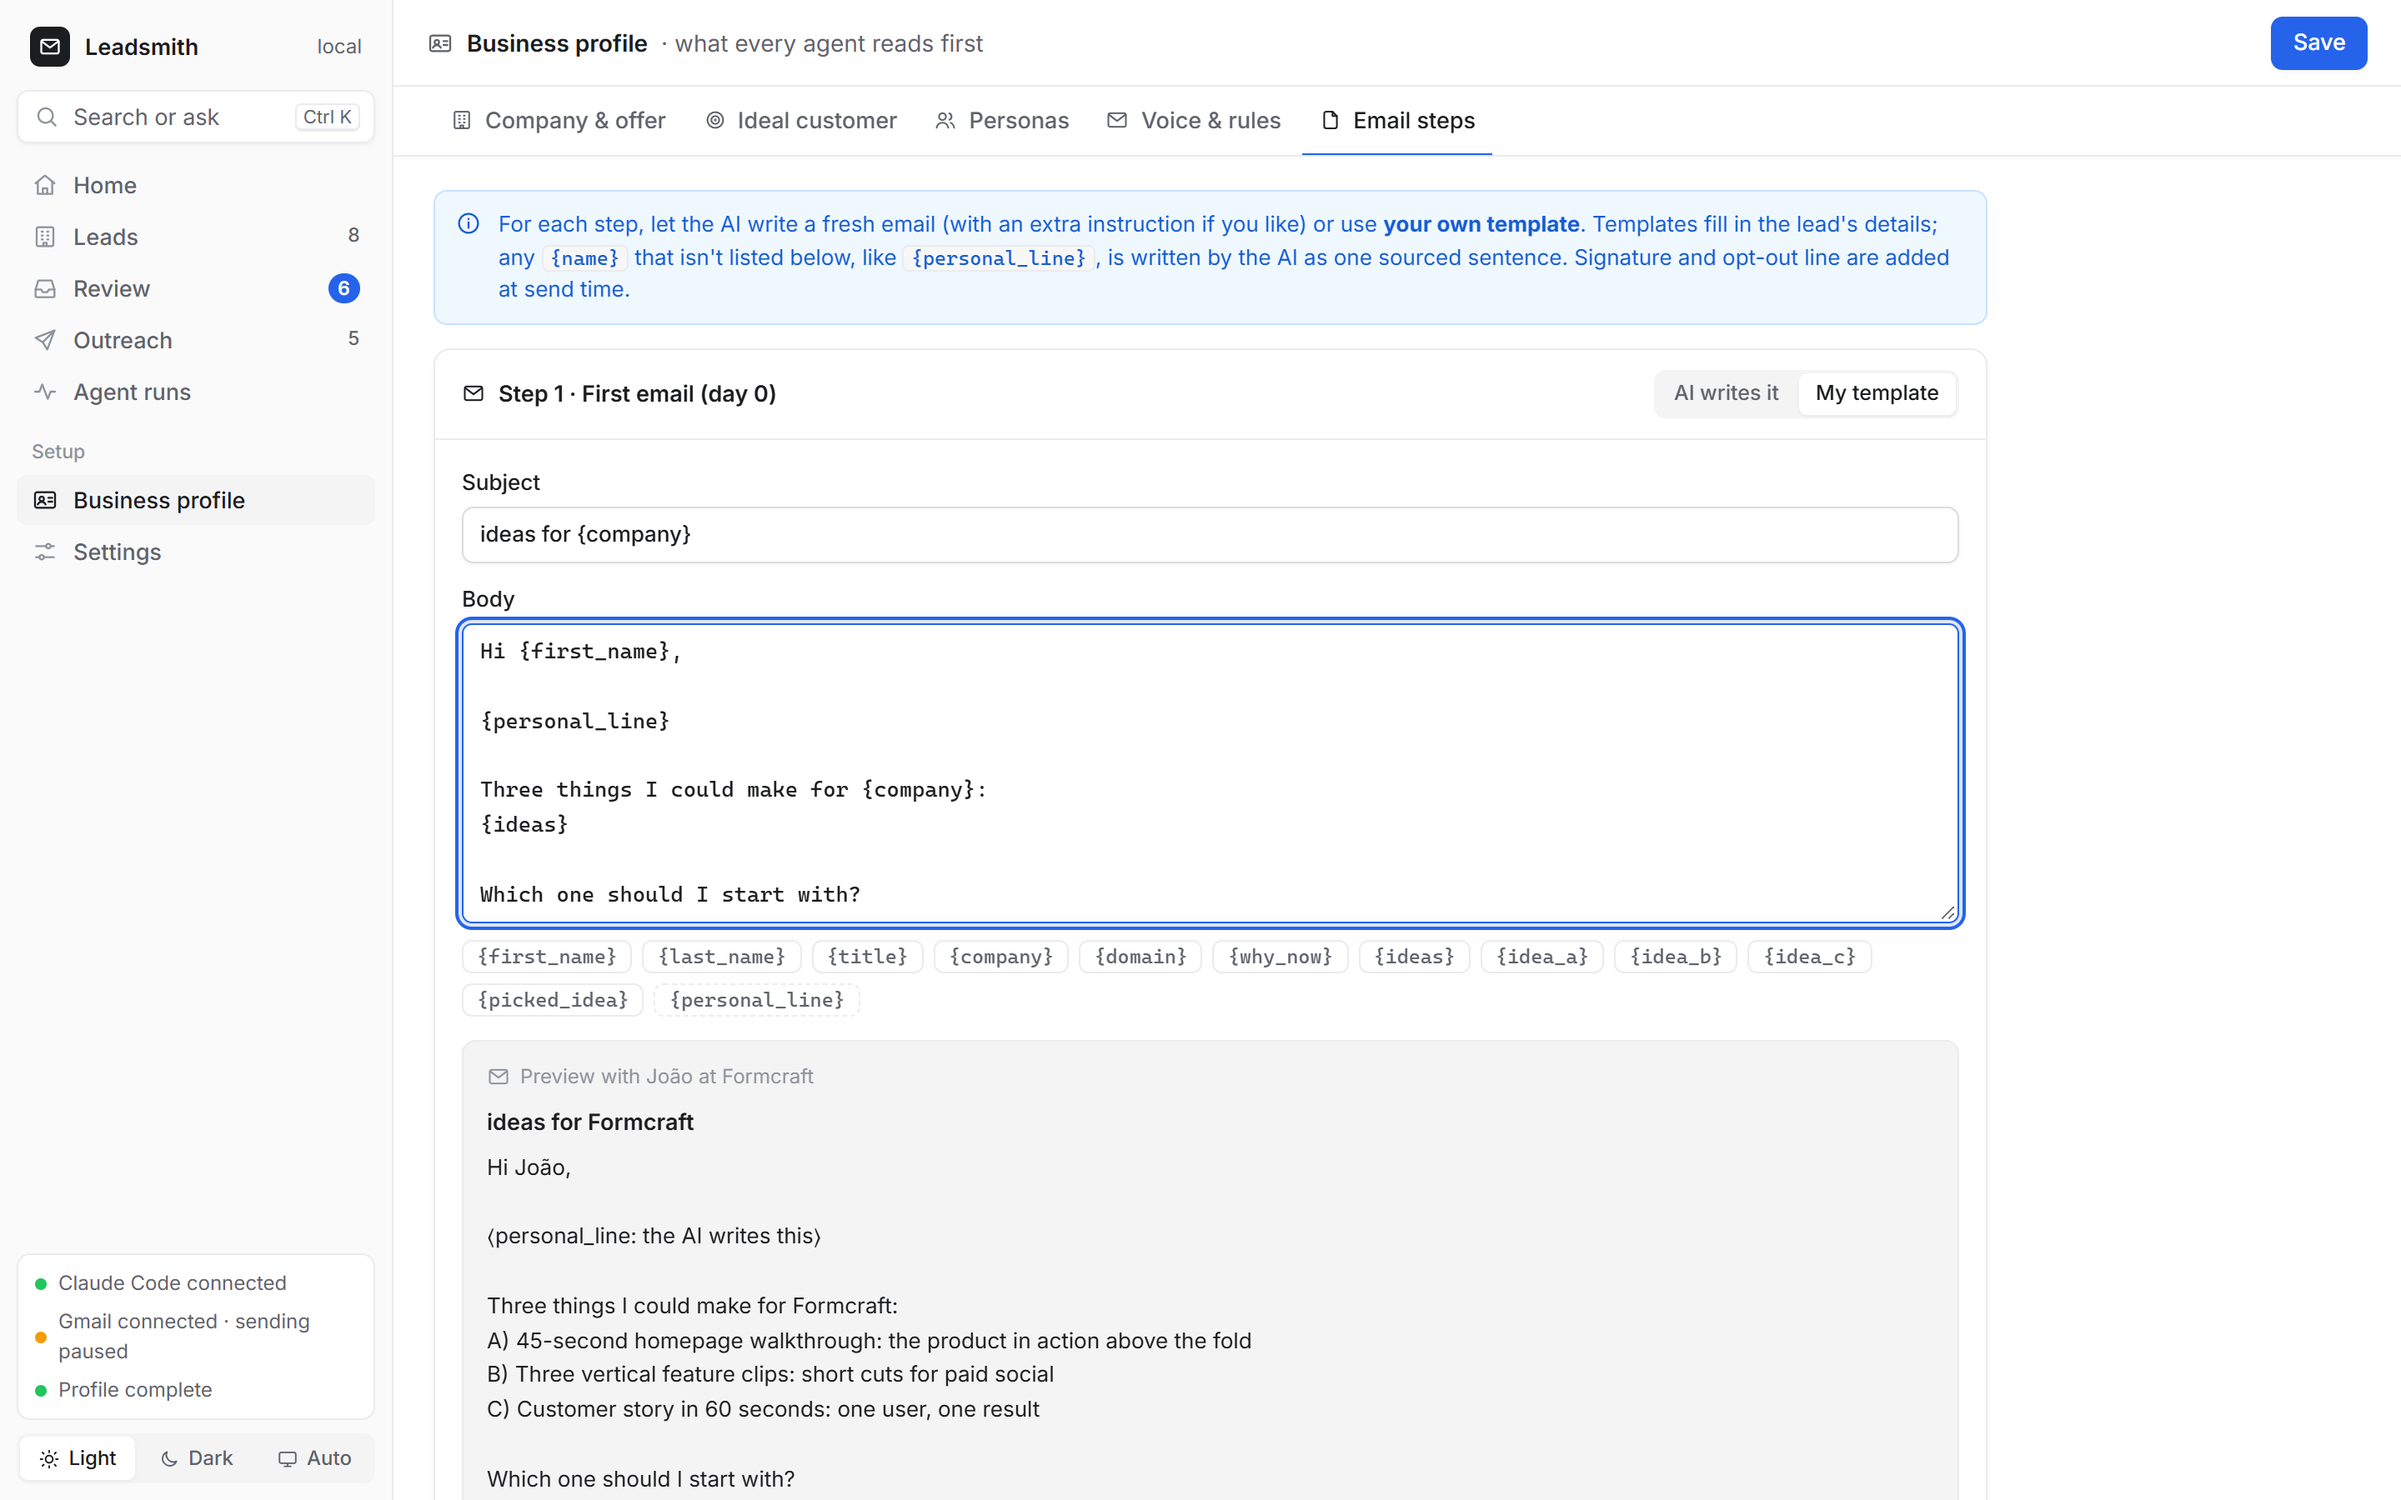
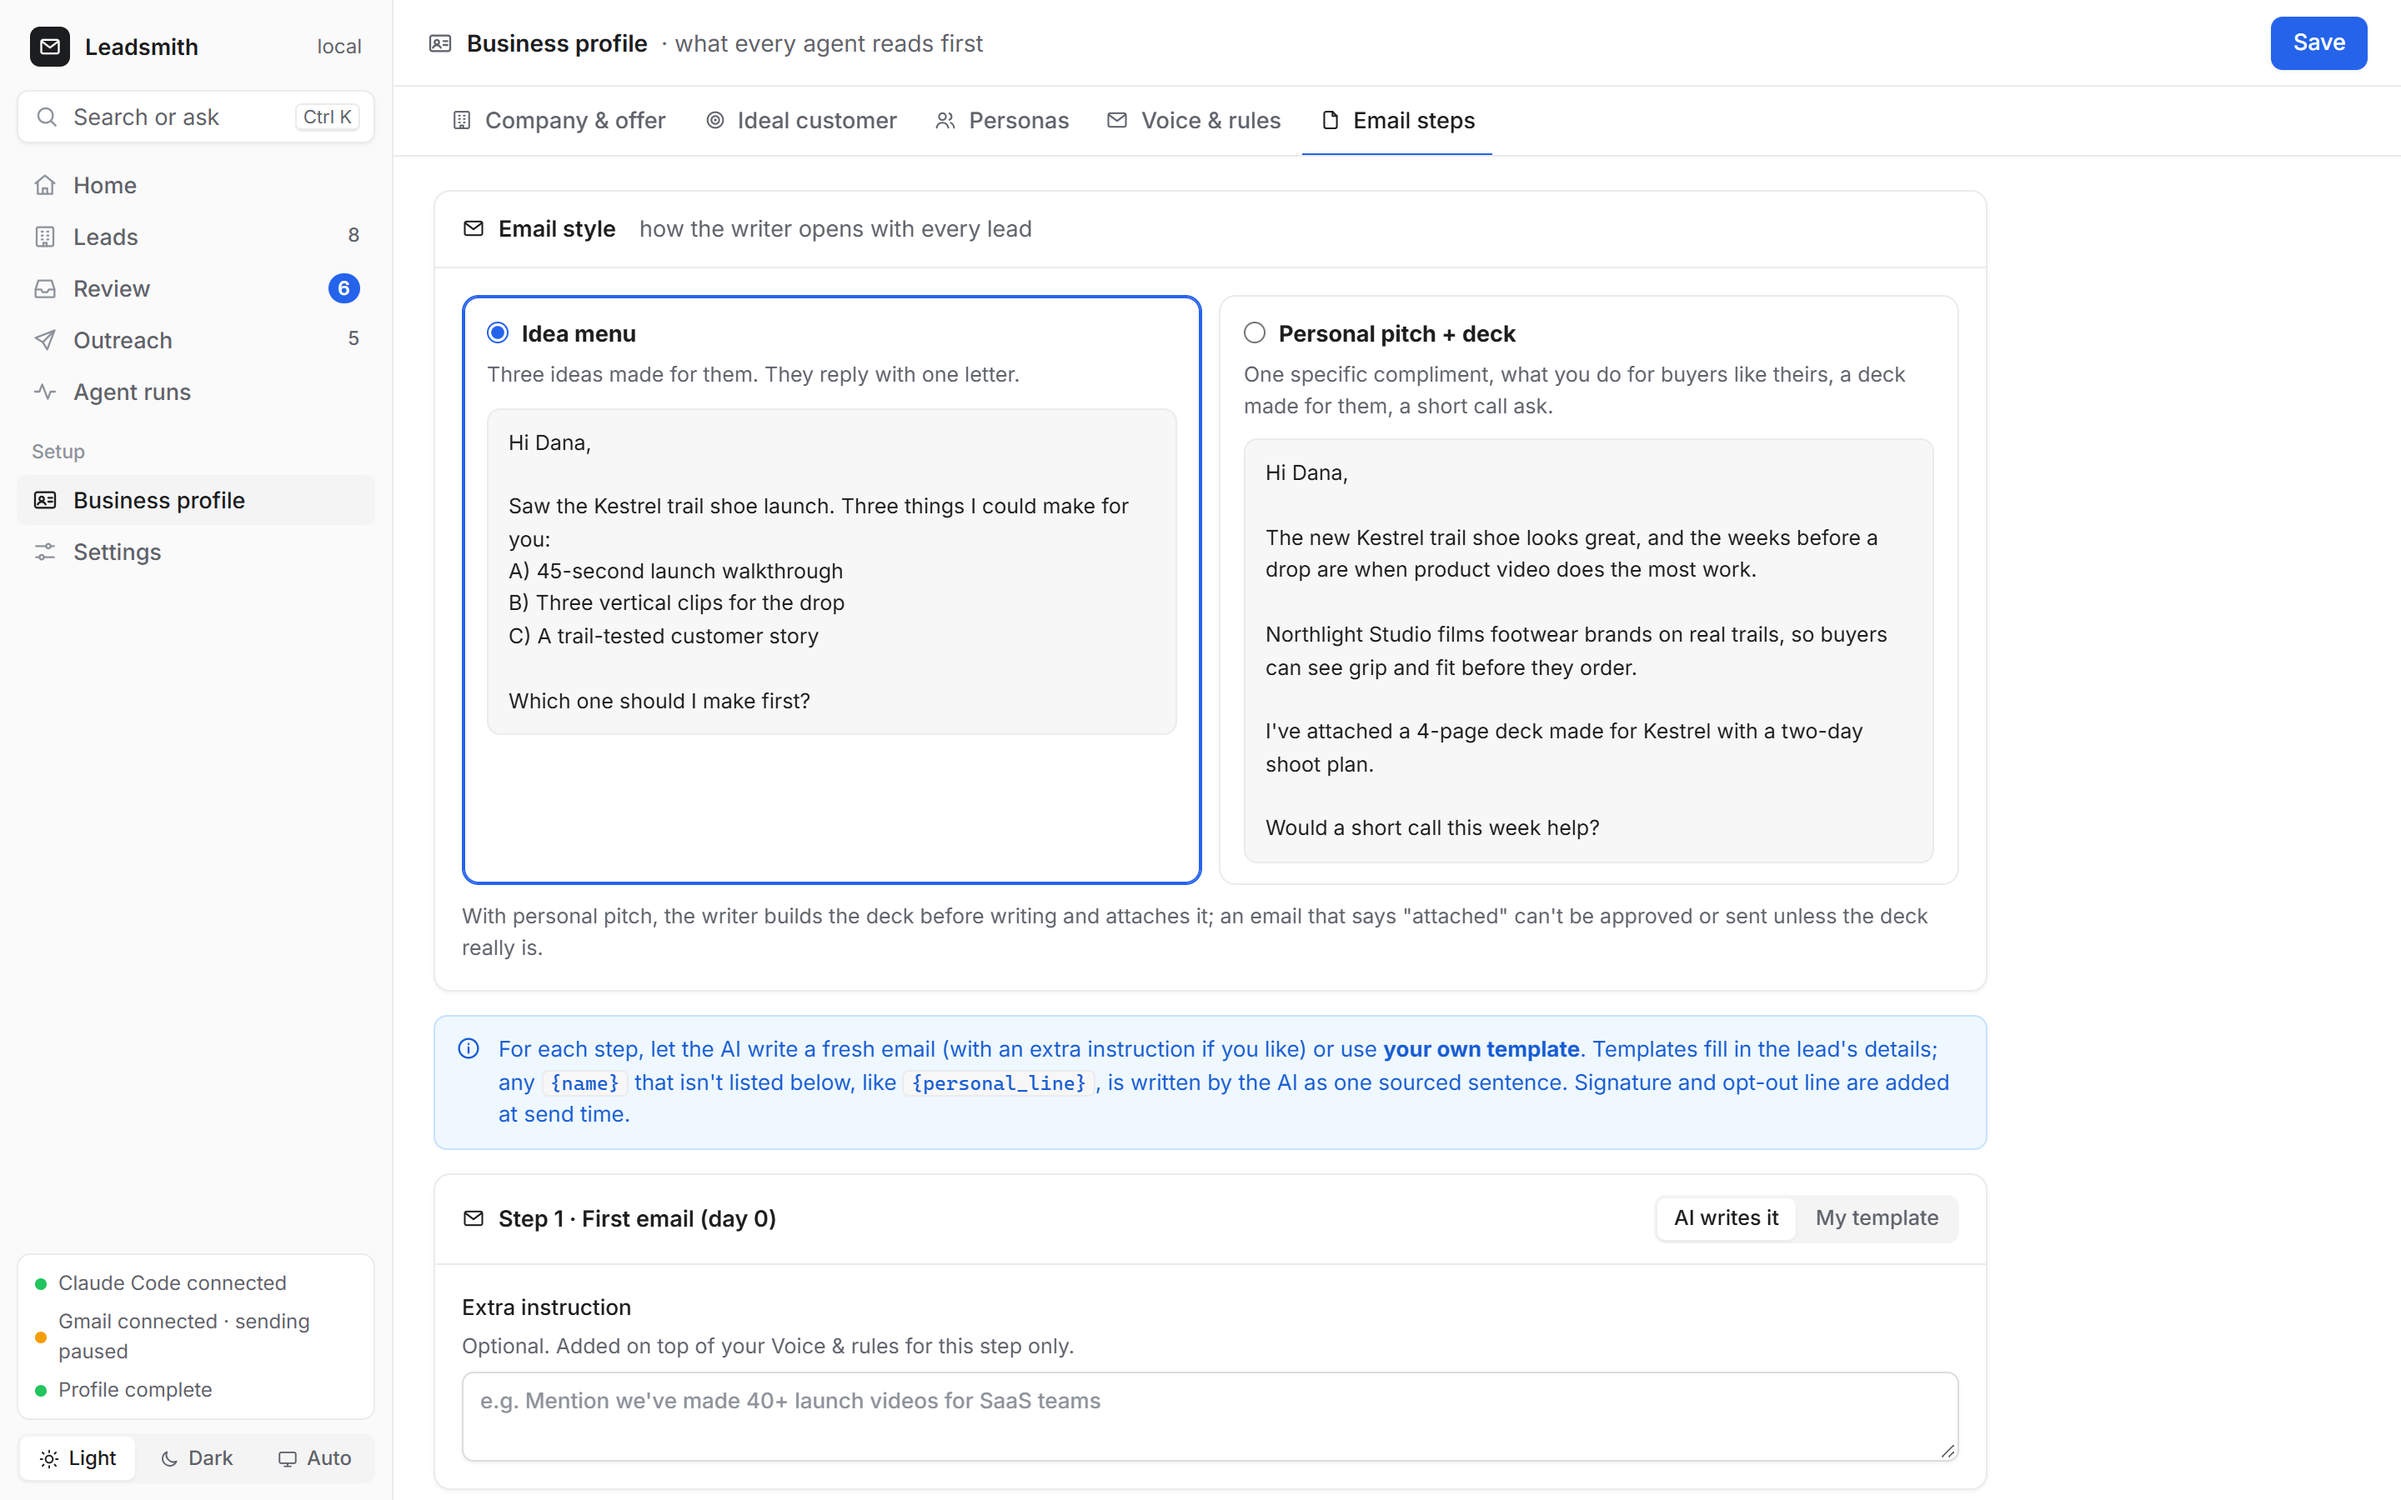
README: personal pitch style, agent plans and sessions, regenerate, edit email, rerun; fresh screenshots

diff --git a/README.md b/README.md
@@ -58,16 +58,32 @@ Which one should I make first: A, B or C?
 
 "B" is the easiest reply anyone can send, and it tells you exactly what to build.
 
+Prefer a classic, personal note? Switch **Business profile → Email steps → Email style** to **Personal pitch + deck**. The writer opens with one specific, true observation, says what you do for buyers like theirs, builds a 4-page PDF deck made for that company and attaches it, then asks for a short call:
+
+```
+Subject: Kestrel trail shoe, before the spring drop
+
+Hi Dana,
+
+The new Kestrel trail shoe looks great, and the weeks before a drop are when product video does the most work.
+
+Northlight Studio films footwear and outdoor brands on real trails, so buyers can see grip and fit before they order.
+
+I've attached a 4-page deck made for Kestrel with a two-day shoot plan.
+
+Would a short call this week help?
+```
+
 ## How it works
 
 ![How Leadsmith works: business profile, leads, review and outreach, powered by four agents running on your coding agent](docs/how-it-works.png)
 
-- **The engine is the coding agent you already use**: Claude Code, Codex, OpenCode or Gemini CLI, running headless on your own plan. Pick one in **Settings → Agent engine**. Dashboard buttons start a background run, which you can watch live under **Agent runs**.
+- **The engine is the coding agent you already use**: Claude Code, Codex, OpenCode or Gemini CLI, running headless on your own plan. Connect one in **Settings → Agent engine**. Dashboard buttons start a background run, which you can watch live under **Agent runs**. If an agent hits its usage limit, finish the task with another one in a click.
 - **Four agents share one memory**: a local SQLite pipeline plus your business profile.
   1. **Signal Scout** finds companies that fit your ICP *and* show a reason to buy now: hiring, funding, new leaders, launches, tech.
   2. **People Finder** finds the decision maker and their email. It looks for an address published on their site first and only guesses from the company's pattern as a fallback.
   3. **Account Researcher** writes a short, sourced brief and the outreach angle.
-  4. **Outreach Writer** writes three ideas and a 3-step sequence in your voice, plus an optional LinkedIn note and a 4-page PDF deck.
+  4. **Outreach Writer** writes a 3-step sequence in your voice and your chosen style (an idea menu, or a personal pitch with a deck made for them), plus an optional LinkedIn note.
 - **You stay in control.** Agents can research and draft, but they can never approve or send. Approving and sending are your clicks in the dashboard.
 
 ### Free data only
@@ -107,11 +123,16 @@ Click a company to see the research brief, every signal with its source link, th
 
 Every draft waits here. You see why now, the ideas, all three emails (day 0, 3 and 7), where the email address came from, and region notes. Edit anything, **Send test to me**, then **Approve**. Drafts with red issues from the linter (spammy words, AI-sounding phrases, links in a first email, unfilled `{placeholders}`) can't be approved.
 
+- **Edit** next to the address fixes a wrong or guessed email. It's then marked *Entered by you*.
+- **Attach deck** and **View deck** show and attach the PDF deck made for that company.
+
 ![Review screen: idea cards, the email composer, a guessed-email warning and an EU compliance note](docs/screenshots/review.png)
 
 ### Outreach: sending, follow-ups and replies
 
 Approved emails go out from your own Gmail, only in business hours in each prospect's time zone, one a minute, within your warm-up limit. Follow-ups reply in the same thread when they're due, and stop by themselves when someone replies. Replies show up inline: "A" marks idea A as picked, and **Draft reply** writes your answer for review.
+
+Changed your mind about an approved email that hasn't gone out? **Regenerate** rewrites that person's unsent emails, with an optional note such as "shorter" or "warmer". They come off the send queue straight away and wait in Review until you approve them again. Sent emails are never touched.
 
 ![Outreach: people in sequence, each step's status, an inline reply and the picked idea](docs/screenshots/outreach.png)
 
@@ -121,19 +142,21 @@ Your company and offer, ideal customer, personas, and voice and rules. **Draft f
 
 ![Business profile editor](docs/screenshots/business-profile.png)
 
-### Email steps: AI-written or your own template
+### Email steps: style, and AI-written or your own template
 
-For each step, either let the AI write a fresh email, with an extra instruction if you like, or use **your own template**. Templates fill in lead fields such as `{first_name}`, `{company}` and `{ideas}`. Any other `{name}`, like `{personal_line}`, becomes one sourced sentence the AI writes. A live preview shows the result on a real lead.
+Pick the **Email style** for every first email: an **Idea menu** (three ideas they choose from) or a **Personal pitch + deck**. Then, for each step, either let the AI write a fresh email, with an extra instruction if you like, or use **your own template**. Templates fill in lead fields such as `{first_name}`, `{company}` and `{ideas}`. Any other `{name}`, like `{personal_line}`, becomes one sourced sentence the AI writes. A live preview shows the result on a real lead.
 
-![Email step templates with placeholders and a live preview](docs/screenshots/email-steps.png)
+![Email style picker (idea menu or personal pitch with a deck) above the step templates](docs/screenshots/email-steps.png)
 
 ### Agent runs and settings
 
-Every run shows its status, live log and cost. Settings holds your Gmail connection (with **Test connection**), sending hours, warm-up, the daily limit, signature and postal address, the optional BetterContact key, and a short note on sending responsibly.
+Every run shows its status, live log, cost and which agent ran it. If a run fails or you stop it, **Run again** retries it, and **Run with another agent** finishes it on a different one, picking up from what's already saved. That's handy when one plan hits its usage limit. Failures are explained in plain words, such as "the model's servers are busy" or "you've hit a usage limit".
+
+Settings holds your agents (each card shows the plan it signs in with), the model, your Gmail connection (with **Test connection**), sending hours, warm-up, the daily limit, signature and postal address, and the optional BetterContact key.
 
 | Agent runs | Settings |
 |---|---|
-| ![Agent runs with status and cost](docs/screenshots/agent-runs.png) | ![Settings](docs/screenshots/settings.png) |
+| ![A failed run with Run again and Run with another agent](docs/screenshots/agent-runs.png) | ![Settings with the agent cards, their plans and the model picker](docs/screenshots/settings.png) |
 
 ## Install
 
@@ -179,6 +202,9 @@ uv run leadsmith doctor
 ## Choose your agent engine
 
 Leadsmith works with any of these. Install one and sign in once in a terminal. Then click **Connect** next to it in **Settings → Agent engine**. If you start a run with no agent connected, Leadsmith asks you to connect one first. Only one agent is connected at a time, and only after you connect it: Leadsmith never starts or checks an agent in the background, and after you restart the dashboard you connect again.
+
+- **Your plan, on each card.** Settings shows what each agent signs in with, such as Claude Pro, ChatGPT Go, your OpenCode providers or a Gemini API key. It reads this from the agent's own files on your computer; nothing is started or sent.
+- **New or previous session.** Connecting asks whether to start a new session or continue the previous one, which shows when it was last used and what it was doing. While an agent stays connected, its runs share one conversation, so it remembers what it did in earlier runs.
 
 | Engine | Install | Sign in | Notes |
 |---|---|---|---|
@@ -248,6 +274,8 @@ Tip: set **Test mode** in Settings to your own address while you try it out. Eve
 - Emails go out only inside business hours in the **prospect's** time zone (default 9–17, weekdays), one a minute, with follow-ups counted in business days. Opening the app after a break never fires a burst of late follow-ups.
 - **Warm-up**: a new sender starts at 5 emails a day and adds 3 a day up to your daily limit (default 25).
 - Every email gets an opt-out line, a `List-Unsubscribe` header and your postal address. A do-not-contact list is checked before every send, and opt-out replies and bounces are added to it automatically.
+- An email that says something is attached can't be approved or sent unless the deck PDF really is attached.
+- **Regenerate** and changing a person's email both move their approved, unsent emails back to Review, so nothing goes out that you haven't seen in its final form.
 - Guessed emails are clearly labelled. Send small batches first, since bounces hurt your sender reputation.
 - The dashboard only listens on `127.0.0.1` and rejects cross-site and DNS-rebinding requests.
 - Leads that look like they're in the **EU/EEA, UK, Switzerland or Canada** get a flag with that region's rule in one line.
